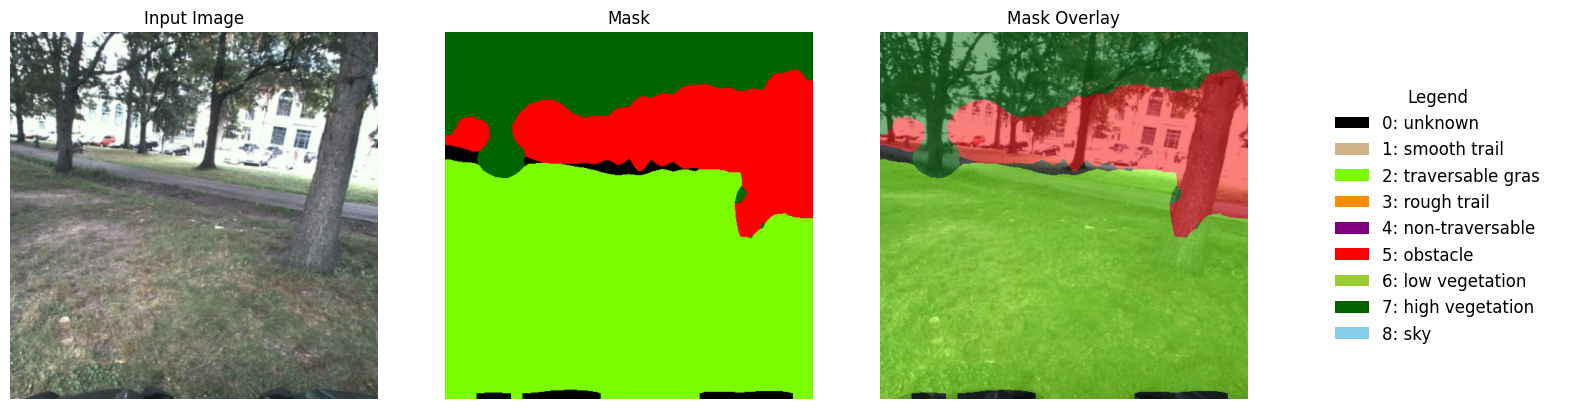
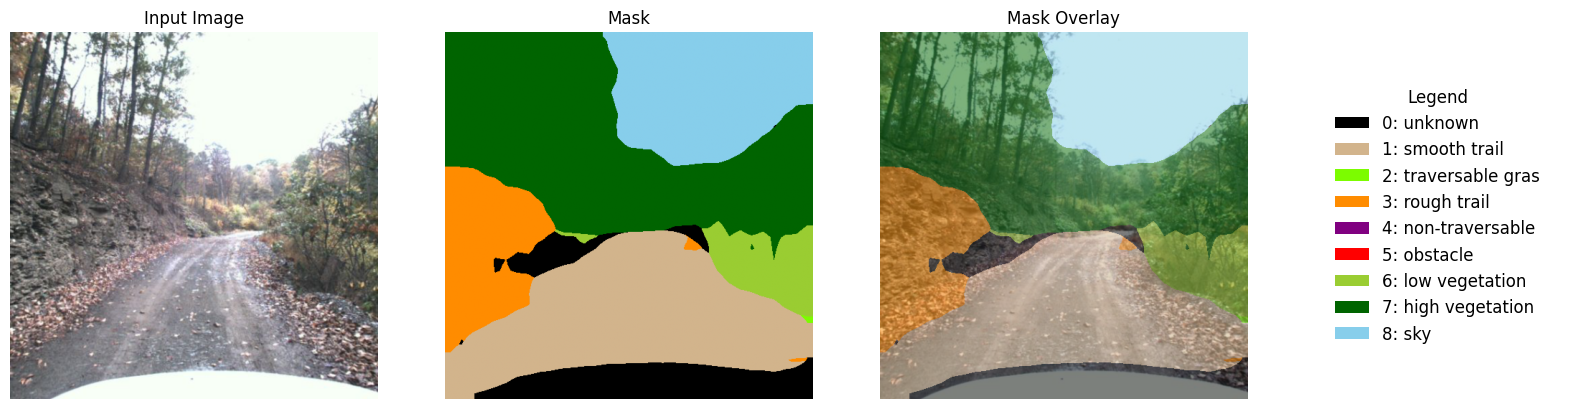
gradio+

diff --git a/graph/plot_wandb_curves.py b/graph/plot_wandb_curves.py
@@ -1,0 +1,41 @@
+import pandas as pd
+import matplotlib.pyplot as plt
+
+df = pd.read_csv("wandb_history_raw.csv")
+
+train_loss_df = df[["epoch", "train_loss"]].dropna().drop_duplicates(subset=["epoch"]).sort_values("epoch")
+valid_loss_df = df[["epoch", "valid_loss"]].dropna().drop_duplicates(subset=["epoch"]).sort_values("epoch")
+
+train_miou_df = df[["epoch", "train_mean_iou"]].dropna().drop_duplicates(subset=["epoch"]).sort_values("epoch")
+valid_miou_df = df[["epoch", "valid_mean_iou"]].dropna().drop_duplicates(subset=["epoch"]).sort_values("epoch")
+
+# 统一字体大小
+plt.rcParams["font.size"] = 10
+
+# 图5：Loss 曲线
+plt.figure(figsize=(5.8, 3.8))
+plt.plot(train_loss_df["epoch"], train_loss_df["train_loss"], marker="o", markersize=3, label="Train Loss")
+plt.plot(valid_loss_df["epoch"], valid_loss_df["valid_loss"], marker="s", markersize=3, label="Valid Loss")
+plt.xlabel("Epoch")
+plt.ylabel("Loss")
+plt.legend()
+plt.grid(True, linestyle="--", alpha=0.4)
+plt.tight_layout()
+plt.savefig("loss_curves_small.png", dpi=600, bbox_inches="tight")
+plt.savefig("loss_curves_small.pdf", bbox_inches="tight")
+plt.close()
+
+# 图6：mIoU 曲线
+plt.figure(figsize=(5.8, 3.8))
+plt.plot(train_miou_df["epoch"], train_miou_df["train_mean_iou"], marker="o", markersize=3, label="Train mIoU")
+plt.plot(valid_miou_df["epoch"], valid_miou_df["valid_mean_iou"], marker="s", markersize=3, label="Valid mIoU")
+plt.xlabel("Epoch")
+plt.ylabel("mIoU")
+plt.legend()
+plt.grid(True, linestyle="--", alpha=0.4)
+plt.tight_layout()
+plt.savefig("miou_curves_small.png", dpi=600, bbox_inches="tight")
+plt.savefig("miou_curves_small.pdf", bbox_inches="tight")
+plt.close()
+
+print("已生成。")

diff --git a/graph/export_wandb_history.py b/graph/export_wandb_history.py
@@ -1,0 +1,26 @@
+import wandb
+import pandas as pd
+
+ENTITY = "a3071093490-k"
+PROJECT = "offroad-1"
+RUN_ID = "vsyc679f"
+
+api = wandb.Api()
+run = api.run(f"{ENTITY}/{PROJECT}/{RUN_ID}")
+
+
+rows = list(run.scan_history())
+df = pd.DataFrame(rows)
+
+print("原始列名：", df.columns.tolist())
+print(df.head())
+
+# 只保留你论文需要的列
+keep_cols = ["epoch", "train_loss", "valid_loss", "train_mean_iou", "valid_mean_iou"]
+keep_cols = [c for c in keep_cols if c in df.columns]
+
+df = df[keep_cols]
+df.to_csv("wandb_history_raw.csv", index=False, encoding="utf-8-sig")
+
+print("导出完成：wandb_history_raw.csv")
+print(df.head(10))

diff --git a/test.py b/test.py
@@ -11,8 +11,8 @@ from utils import vis_segmentation  #vis_segmentation，这是可视化函数，
 with open("config/config.yaml", "r",encoding="utf-8") as f:
     config = yaml.safe_load(f)
 
-image = Image.open(op.join(config["DATA_PATH"], "valid/iid000944/rgb.jpg"))
-mask = Image.open(op.join(config["DATA_PATH"], "valid/iid000944/labels.png"))
+image = Image.open(op.join(config["DATA_PATH"], "valid/iid000898/rgb.jpg"))
+mask = Image.open(op.join(config["DATA_PATH"], "valid/iid000898/labels.png"))
 
 model = DeepLabWrapper(model_path=config["LOAD_MODEL_PATH"])
 # 动态地把输入图像调整大小并裁剪成模型所需的尺寸

diff --git a/utils/__init__.py b/utils/__init__.py
@@ -9,6 +9,8 @@ from .utils import (
     display_example_pair,
     overlay_mask_cv2,
     vis_segmentation,
+    LABEL_NAMES,
+    RGB_COLORS
 )
 
 #当使用from utils import ...时 允许被导出的名字有哪些
@@ -18,4 +20,6 @@ __all__ = [
     "vis_segmentation",
     "display_example_pair",
     "overlay_mask_cv2",
+    "LABEL_NAMES",
+    "RGB_COLORS"
 ]

diff --git a/models/deeplab_wrapper.py b/models/deeplab_wrapper.py
@@ -15,7 +15,7 @@ from torchvision.models.segmentation import (
     deeplabv3_resnet50,
     deeplabv3_resnet101,   #这些函数用来直接创建 DeepLabV3 模型。
 )
-from torchvision.models.segmentation.deeplabv3 import DeepLabHead #用来替换模型最后的分类头，让输出类别数适配你自己的数据集。
+from torchvision.models.segmentation.deeplabv3 import DeepLabHead #用来替换模型最后的分类头，让输出类别数适配自己的数据集。
 from torchvision.transforms import v2 #导入新版 transforms
 
 